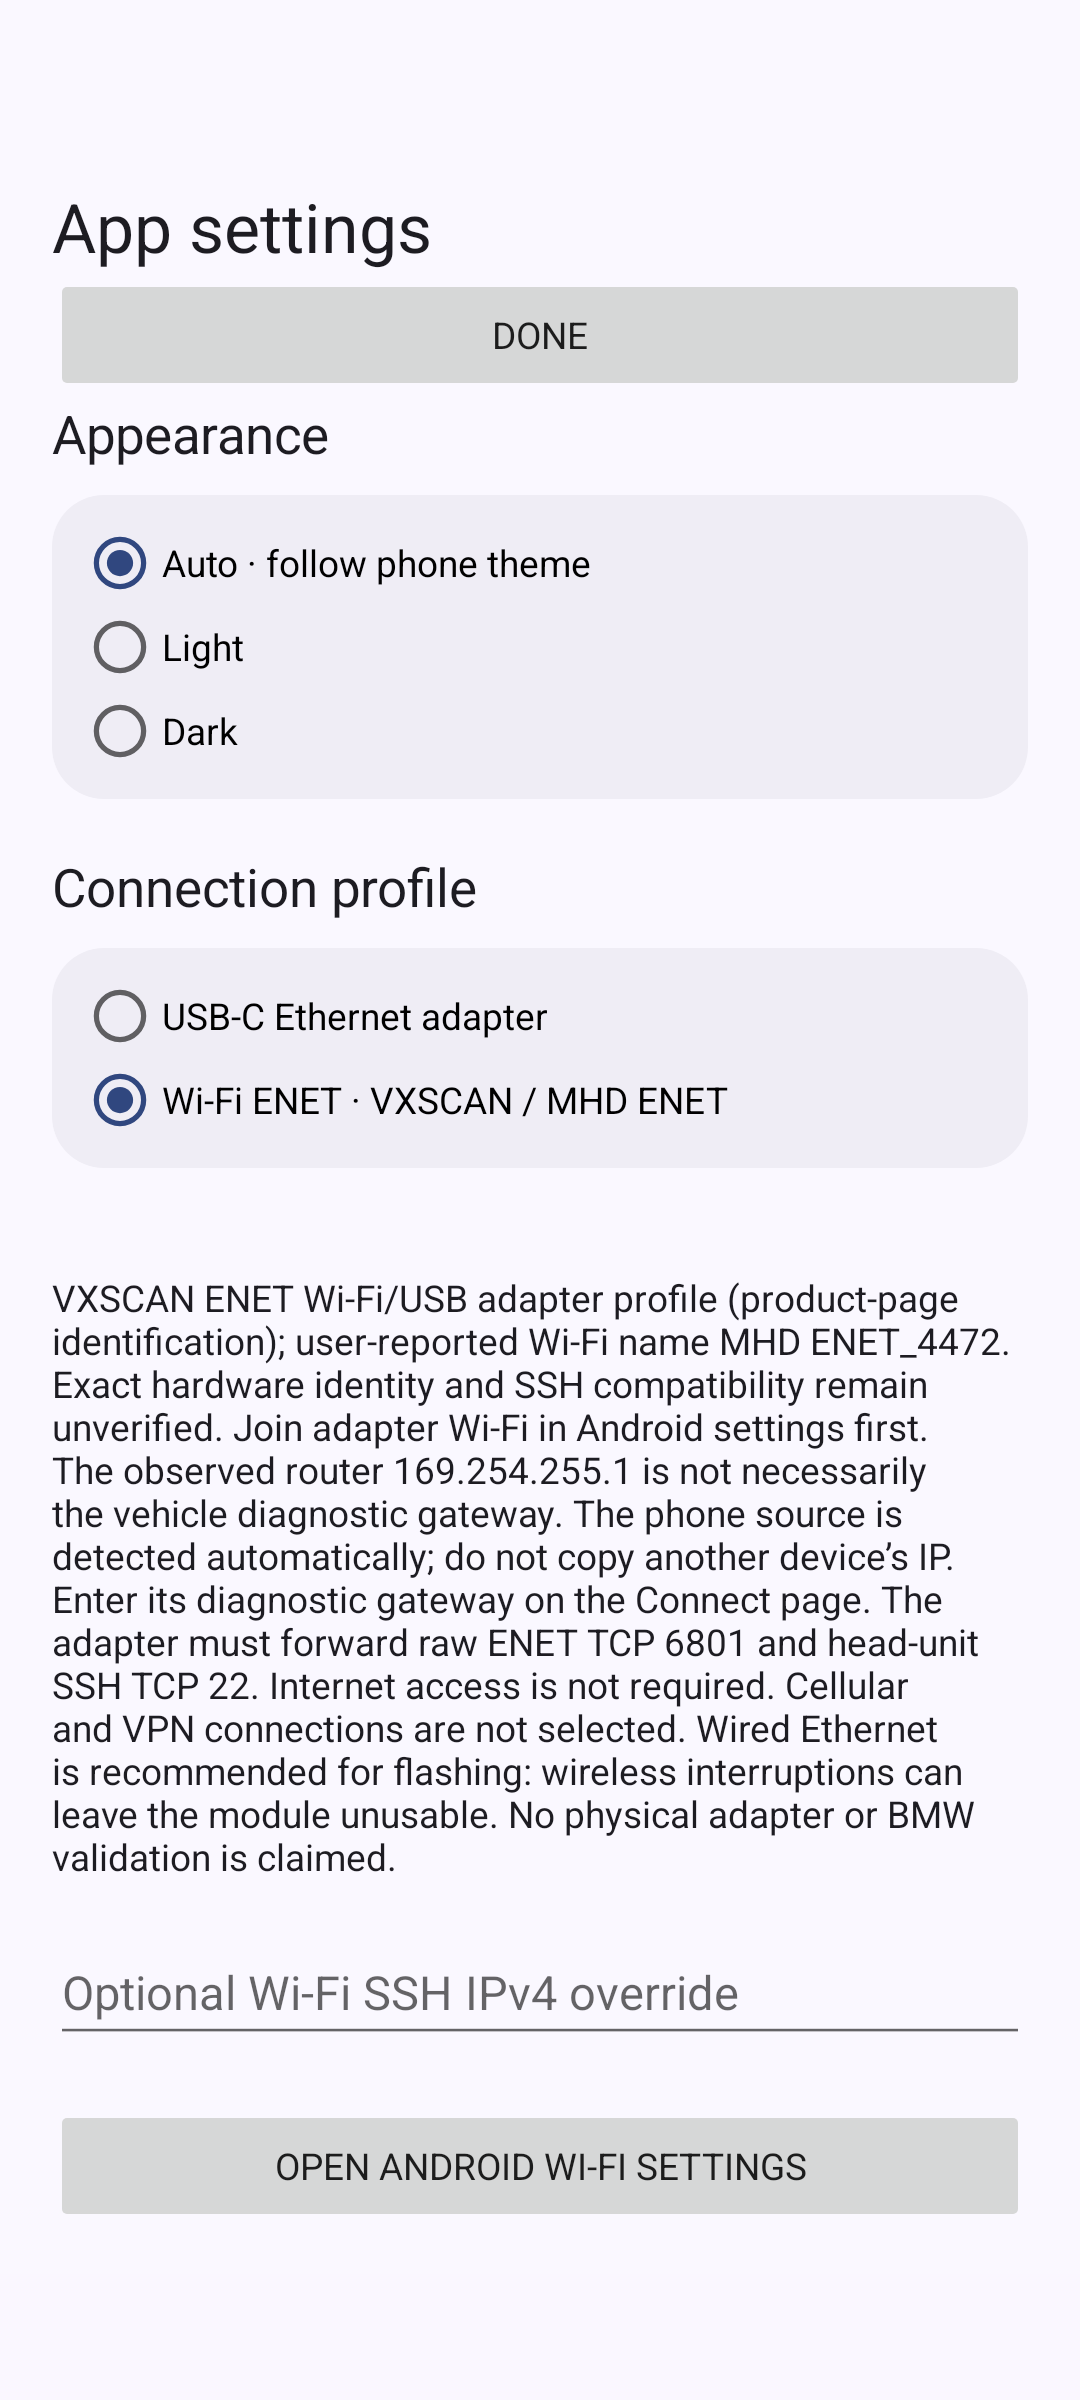
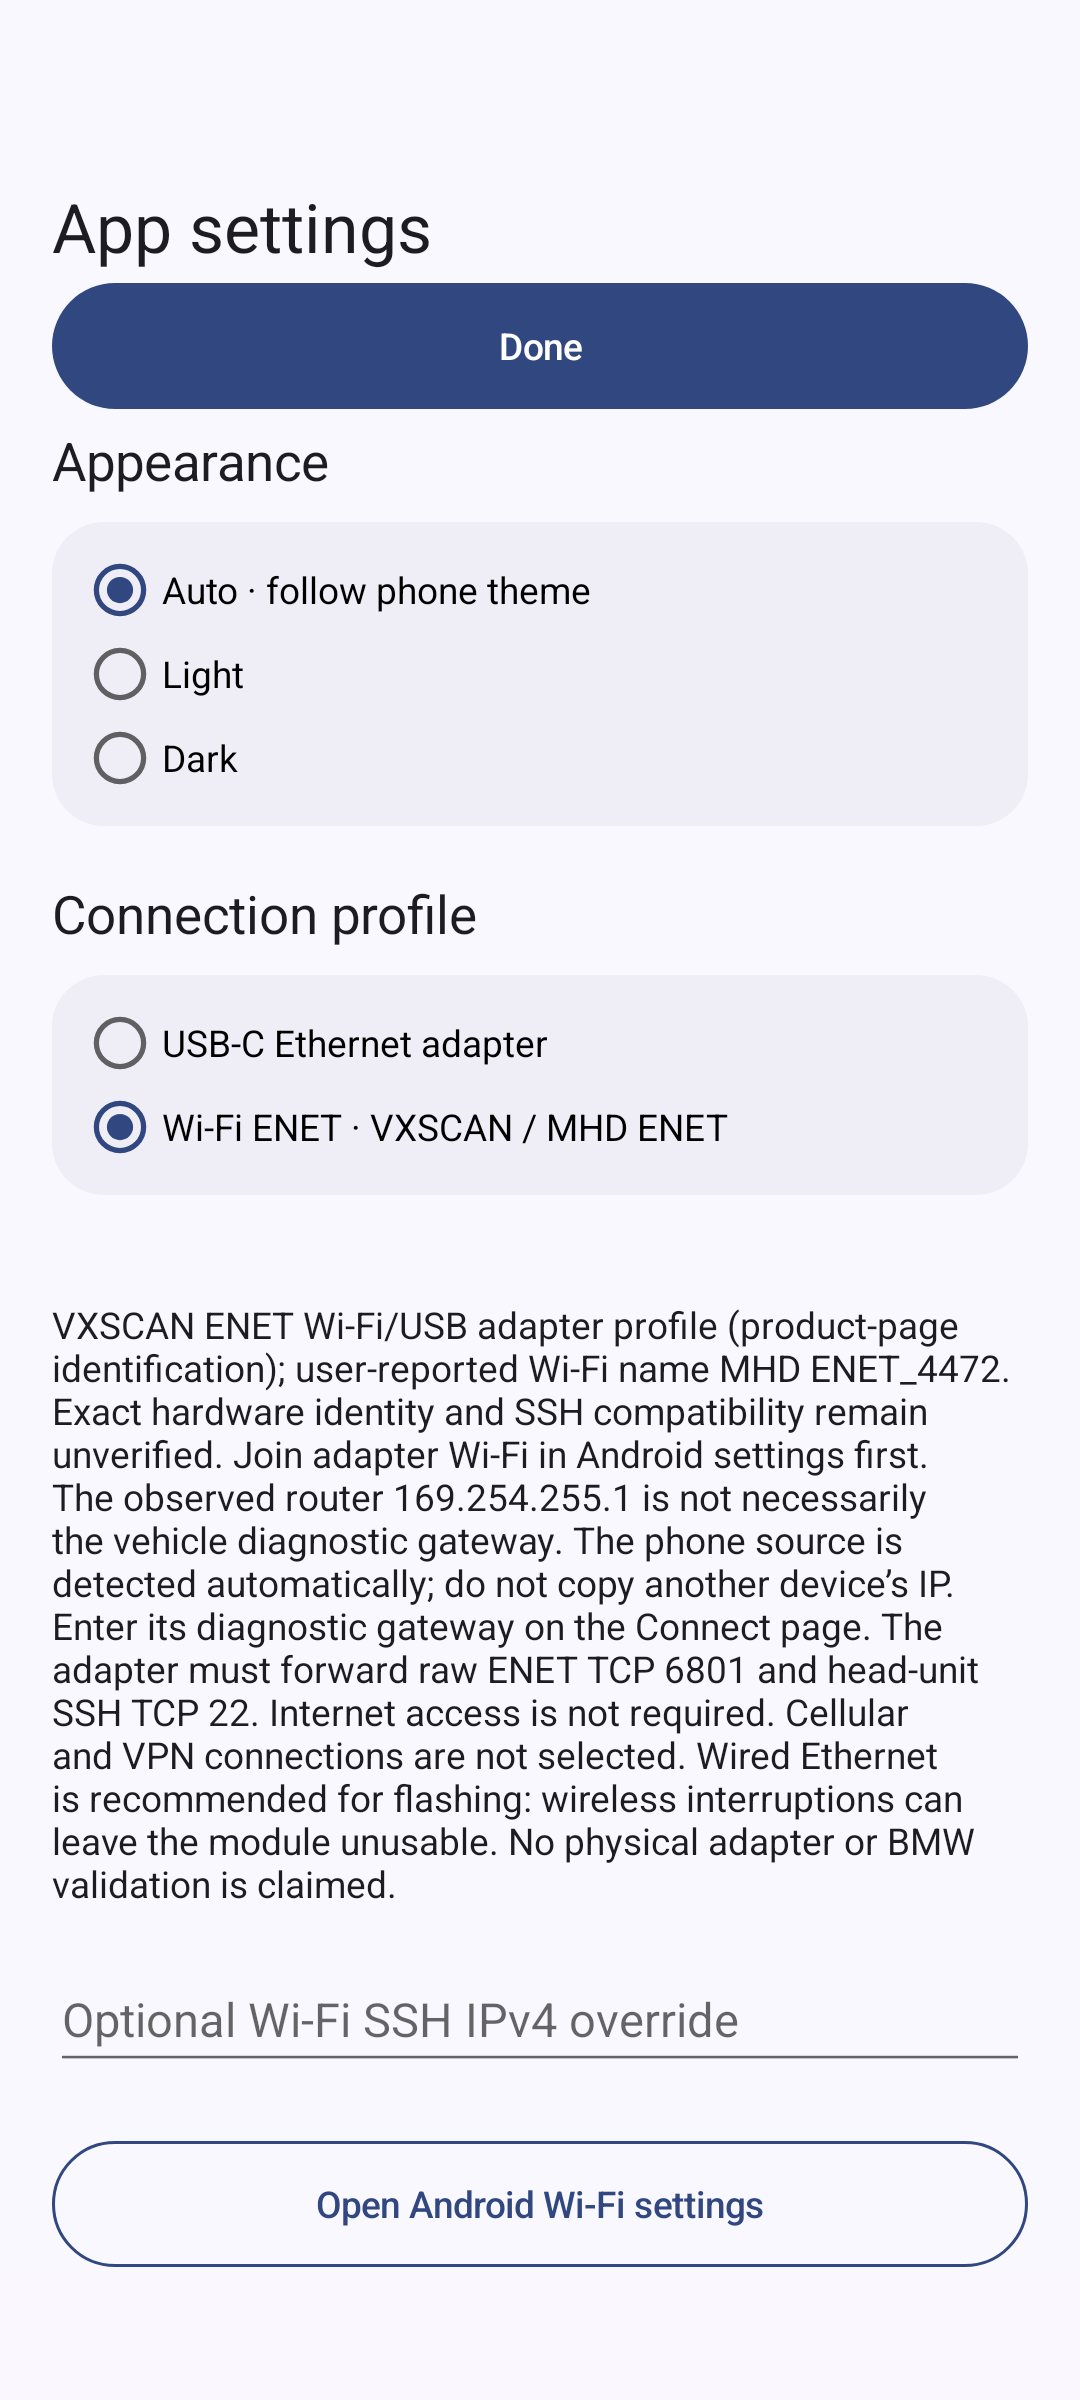
Add files via upload

Changed region(s): [[0.0306, 0.5312, 0.9472, 0.9375], [0.0306, 0.0938, 0.9472, 0.5]]

diff --git a/android/app/src/main/java/dev/mgu/standalone/SettingsActivity.java b/android/app/src/main/java/dev/mgu/standalone/SettingsActivity.java
@@ -15,7 +15,7 @@ public final class SettingsActivity extends Activity {
   if(android.os.Build.VERSION.SDK_INT>=30)getWindow().setDecorFitsSystemWindows(false);
   scroll.setOnApplyWindowInsetsListener((v,insets)->{if(android.os.Build.VERSION.SDK_INT>=30){android.graphics.Insets bars=insets.getInsets(WindowInsets.Type.systemBars()|WindowInsets.Type.displayCutout());scroll.setPadding(bars.left,bars.top,bars.right,bars.bottom);}else scroll.setPadding(insets.getSystemWindowInsetLeft(),insets.getSystemWindowInsetTop(),insets.getSystemWindowInsetRight(),insets.getSystemWindowInsetBottom());return insets;});scroll.requestApplyInsets();
   TextView title=new TextView(this);title.setText("App settings");title.setTextSize(26);title.setTextColor(ink);box.addView(title);
-  Button back=new Button(this);back.setText("Done");box.addView(back);back.setOnClickListener(v->finish());
+  Button back=new Button(this);back.setText("Done");styleButton(back,dark,true);box.addView(back);back.setOnClickListener(v->finish());
   TextView label=new TextView(this);label.setText("Appearance");label.setTextSize(20);label.setTextColor(ink);box.addView(label);
   RadioGroup themes=new RadioGroup(this);box.addView(themes);styleGroup(themes,dark,pad);String[] keys={"auto","light","dark"},names={"Auto · follow phone theme","Light","Dark"};
   for(int i=0;i<3;i++){RadioButton r=new RadioButton(this);r.setId(View.generateViewId());r.setText(names[i]);themes.addView(r);r.setChecked(AppSettings.prefs(this).getString("theme","auto").equals(keys[i]));final String key=keys[i];r.setOnClickListener(v->{AppSettings.prefs(this).edit().putString("theme",key).apply();recreate();});}
@@ -26,7 +26,16 @@ public final class SettingsActivity extends Activity {
   EditText ssh=new EditText(this);ssh.setSingleLine(true);ssh.setHint("Optional Wi-Fi SSH IPv4 override");ssh.setText(AppSettings.prefs(this).getString("ssh_override",""));ssh.setEnabled(!BackendService.running);box.addView(ssh);
   TextView error=new TextView(this);error.setTextColor(ink);box.addView(error);
   back.setOnClickListener(v->{String ip=ssh.getText().toString().trim();if(!ip.isEmpty()&&!EthernetRoute.local(ip)){error.setText("Use a private or usable link-local IPv4 address.");return;}if(!BackendService.running)AppSettings.prefs(this).edit().putString("ssh_override",ip).apply();finish();});
-  Button wifi=new Button(this);wifi.setText("Open Android Wi-Fi settings");box.addView(wifi);wifi.setOnClickListener(v->startActivity(new Intent(Settings.ACTION_WIFI_SETTINGS)));
+  Button wifi=new Button(this);wifi.setText("Open Android Wi-Fi settings");styleButton(wifi,dark,false);box.addView(wifi);wifi.setOnClickListener(v->startActivity(new Intent(Settings.ACTION_WIFI_SETTINGS)));
+ }
+ private int dp(float value){return Math.round(value*getResources().getDisplayMetrics().density);}
+ private android.graphics.drawable.GradientDrawable buttonShape(int fill,int stroke){android.graphics.drawable.GradientDrawable d=new android.graphics.drawable.GradientDrawable();d.setColor(fill);d.setCornerRadius(dp(24));if(stroke!=0)d.setStroke(dp(1),stroke);return d;}
+ private void styleButton(Button b,boolean dark,boolean solid){
+  int blue=dark?0xFFAFC3FF:0xFF30477F,pale=dark?0xFF28385B:0xFFDFE5F6,muted=dark?0xFFB1B9CA:0xFF5A5D6B;
+  b.setAllCaps(false);b.setTextSize(14);b.setTypeface(android.graphics.Typeface.create("sans-serif-medium",android.graphics.Typeface.NORMAL));b.setMinHeight(dp(48));b.setMinimumHeight(dp(48));b.setPadding(dp(14),dp(10),dp(14),dp(10));b.setStateListAnimator(null);b.setElevation(0);
+  android.graphics.drawable.StateListDrawable states=new android.graphics.drawable.StateListDrawable();states.addState(new int[]{-android.R.attr.state_enabled},buttonShape(dark?0xFF3C4558:0xFFE1DFE8,0));states.addState(new int[]{android.R.attr.state_pressed},buttonShape(solid?blue:pale,blue));states.addState(new int[]{},buttonShape(solid?blue:android.graphics.Color.TRANSPARENT,solid?0:blue));b.setBackground(states);
+  b.setTextColor(new android.content.res.ColorStateList(new int[][]{new int[]{-android.R.attr.state_enabled},new int[]{}},new int[]{muted,solid?(dark?0xFF10254B:android.graphics.Color.WHITE):blue}));
+  LinearLayout.LayoutParams params=new LinearLayout.LayoutParams(-1,-2);params.setMargins(0,dp(4),0,dp(6));b.setLayoutParams(params);
  }
  private void styleGroup(RadioGroup group,boolean dark,int pad){android.graphics.drawable.GradientDrawable bg=new android.graphics.drawable.GradientDrawable();bg.setColor(dark?0xff1e2330:0xffefedf5);bg.setCornerRadius(pad);group.setBackground(bg);group.setPadding(pad/2,pad/2,pad/2,pad/2);LinearLayout.LayoutParams lp=new LinearLayout.LayoutParams(-1,-2);lp.setMargins(0,pad/2,0,pad);group.setLayoutParams(lp);}
 }

diff --git a/android/app/src/main/java/dev/mgu/standalone/MainActivity.java b/android/app/src/main/java/dev/mgu/standalone/MainActivity.java
@@ -181,7 +181,7 @@ public final class MainActivity extends Activity {
         card(parent,"Connection security"); legacy=new CheckBox(this); legacy.setText("Allow legacy RSA/SHA1 for this operation"); legacy.setTextSize(14); legacy.setTextColor(INK); legacy.setButtonTintList(ColorStateList.valueOf(BLUE)); body.addView(legacy); label("Advanced opt-in only. No automatic algorithm downgrade is used. Investigate an unexpected changed host key; do not reflash just to repair trust.",13,MUTED); secondary("Review / reset local SSH host key",()->resetHostPin());
         card(parent,"Phone Ethernet · root optional"); label("Only needed if Android settings cannot provide a working wired address and route. Requires a phone that is already rooted and your explicit approval.",14,MUTED); secondary("Configure wired IP using root",()->rootDialog(false)); secondary("Remove this app's rooted network setup",()->rootDialog(true)); secondary("Open battery settings",()->startActivity(new Intent(Settings.ACTION_IGNORE_BATTERY_OPTIMIZATION_SETTINGS)));
         card(parent,"Advanced key repair"); label("Fix refused key re-flashes the head unit and carries the same coding, Digital Key and damage risks as a normal flash. Use it only for the documented key-refusal case.",14,RED); danger("Fix refusing key — re-flash",()->prepare("fix-key"));
-        card(parent,"About this app"); label(APP_NAME+"\nv0.6.0 pre-release · runs entirely on this phone",14,MUTED); secondary("Safety & limitations",()->showSafety());
+        card(parent,"About this app"); label(APP_NAME+"\nv0.7.0 pre-release · runs entirely on this phone",14,MUTED); secondary("Safety & limitations",()->showSafety());
     }
     private void safetyCard(LinearLayout parent) { card(parent,"Experimental · read before changes"); label("Not tested on a physical phone or BMW head unit. Flashing can erase coding and Digital Keys or damage the module. The upstream root login key is shared.",13,MUTED); secondary("Safety information",()->showSafety()); }
     private void showSafety() {

diff --git a/RELEASE-NOTES.md b/RELEASE-NOTES.md
@@ -1,15 +1,14 @@
-# v0.6.0 — Pre-release
+# v0.7.0 — Pre-release
 
-- Added named VXSCAN ENET Wi-Fi/USB connection guidance; user-reported adapter SSID MHD ENET_4472. Hardware identity and SSH forwarding remain unverified.
-- Fixed Wi-Fi validation to accept adapter-assigned 169.254.255.x source/router addresses, including the range shown in user photos. Wired automatic address rules remain unchanged.
-- Preserved standard USB-C Ethernet, Light/Dark/Auto themes, separate saved profiles, selected-network binding and all existing authorization safeguards.
-- Added BMW MGU lettering inside the existing terminal icon.
-- Package identity/signing retained; versionCode4, versionName0.6.0-pre-release.
+- Updated Settings → Done to the same filled, rounded primary-button style used throughout the app.
+- Updated Open Android Wi-Fi settings to the matching outlined secondary-button style.
+- Matched typography, sentence case, spacing, 48dp minimum height and pressed/disabled colors in both Light and Dark modes; Auto follows the system theme.
+- VersionCode5; versionName0.7.0-pre-release. Existing package and signing identity retained.
 
-The photographed device's client address is not a phone preset. The router 169.254.255.1 is not confirmed as a diagnostic or SSH endpoint. See docs/WIFI-ADAPTER.md. Wi-Fi requires raw diagnostic TCP6801 and head-unit SSH TCP22 routing. Prefer wired Ethernet for flashing.
+USB-C Ethernet, experimental VXSCAN/MHD ENET Wi-Fi support and the BMW MGU icon are retained. Connection behavior and authorization safeguards are unchanged.
 
-Build, offline and emulator checks only. Not tested on a physical phone, Wi-Fi adapter or BMW head unit. Flashing can brick the module, erase coding/CAFD and delete Digital Key pairings.
+No physical phone, adapter or real BMW head unit testing is claimed. Wi-Fi interoperability and SSH forwarding remain unverified.
 
-Full credit for the original rooting work goes to https://github.com/cauliflowermossgrape/idrive7-8-ssh-root . This is an Android adaptation of that work. No BMW affiliation is claimed.
+Full credit for the original rooting work: https://github.com/cauliflowermossgrape/idrive7-8-ssh-root . This project is an Android adaptation.
 
-Publish with GitHub tag v0.6.0 and Set as a pre-release enabled.
+Publish using GitHub tag v0.7.0 and Set as a pre-release enabled.

diff --git a/VALIDATION-v0.7.0.md b/VALIDATION-v0.7.0.md
@@ -1,0 +1,5 @@
+# v0.7.0 pre-release validation
+
+Android SDK35/JDK17 build and Android lint passed with zero errors. APK versionName0.7.0-pre-release, versionCode5, package dev.mgu.standalone. Installed over the previous version on the Android35 emulator. Existing theme/settings instrumentation passed in both system day and night modes. Visually reviewed rendered settings in light and dark: filled Done and outlined Open Android Wi-Fi settings match the main app button shape, colors, font and spacing.
+
+APK signature verified against the previous signing identity; 16KB ZIP alignment checked. This release changes Settings action-button styling and version metadata. Network/backend/icon behavior is unchanged from v0.6.0; see prior validation for those checks. No new unit tests were added for this cosmetic change. No physical phone, adapter or real BMW head unit testing is claimed.

diff --git a/docs/BUILD-AND-USAGE.md b/docs/BUILD-AND-USAGE.md
@@ -1,3 +1,5 @@
+Current release: **v0.7.0 pre-release**, versionCode5. Settings action buttons now match the main app in both themes. Use tag v0.7.0 and mark as a pre-release. Older version instructions below are historical.
+
 Current release: **v0.6.0 pre-release**, versionCode4. See [adapter guide](WIFI-ADAPTER.md). Use GitHub tag v0.6.0 and mark the release as a pre-release. The earlier release documentation below remains historical.
 
 # v0.5.0 pre-release additions

diff --git a/README.md b/README.md
@@ -2,7 +2,7 @@
 
 An experimental, self-contained **Android version of [idrive7-8-ssh-root](https://github.com/cauliflowermossgrape/idrive7-8-ssh-root)** for BMW MGU iDrive 7/8 head units over USB Ethernet or experimental Wi-Fi ENET.
 
-**v0.6.0 pre-release**
+**v0.7.0 pre-release**
 
 ## Full credits
 

diff --git a/VALIDATION.md b/VALIDATION.md
@@ -1,3 +1,5 @@
+Current version: [v0.7.0 validation](VALIDATION-v0.7.0.md).
+
 Current version: [v0.6.0 validation](VALIDATION-v0.6.0.md).
 
 For the current pre-release, see [v0.5.0 validation](VALIDATION-v0.5.0.md). The following records earlier version checks.
